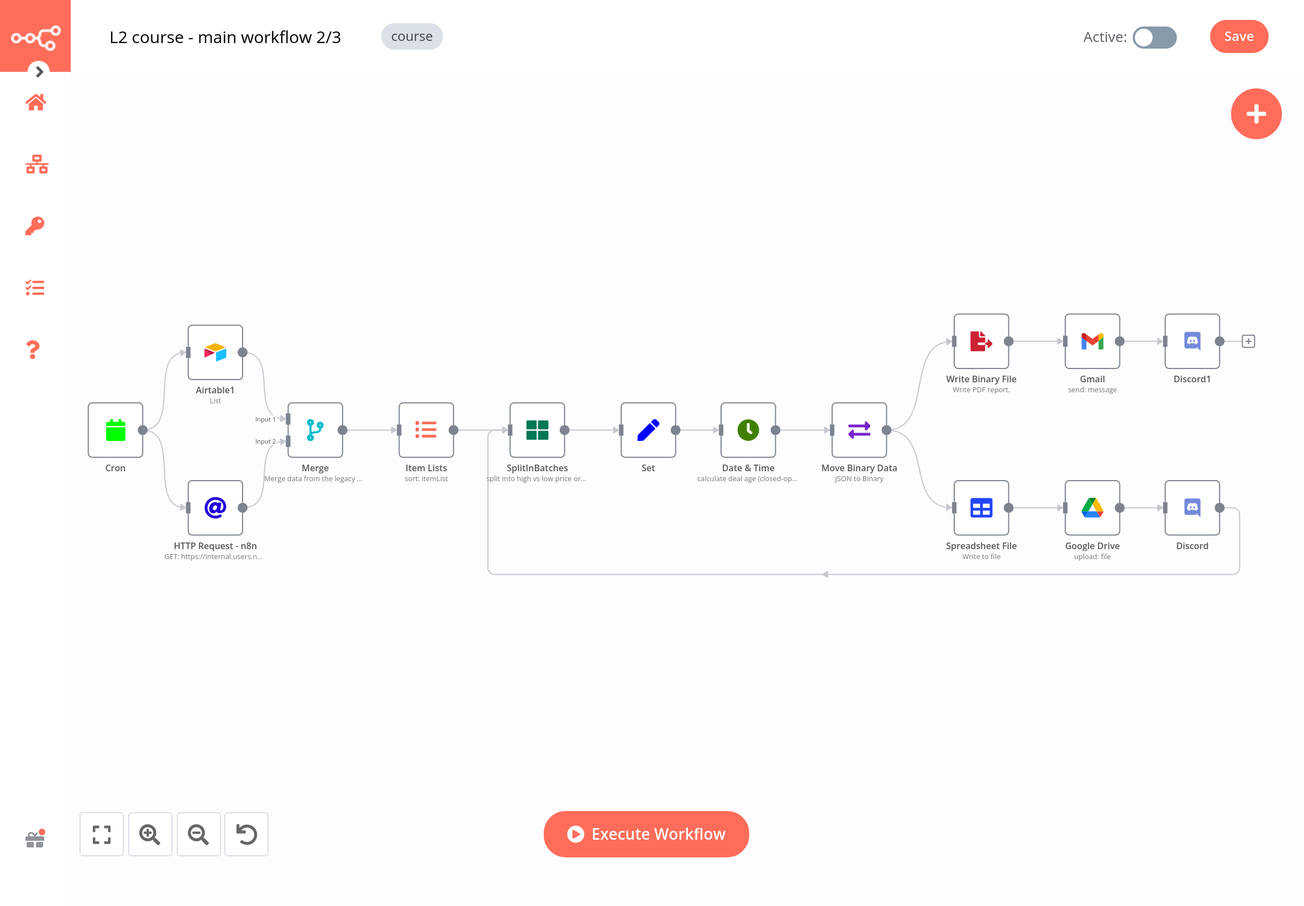
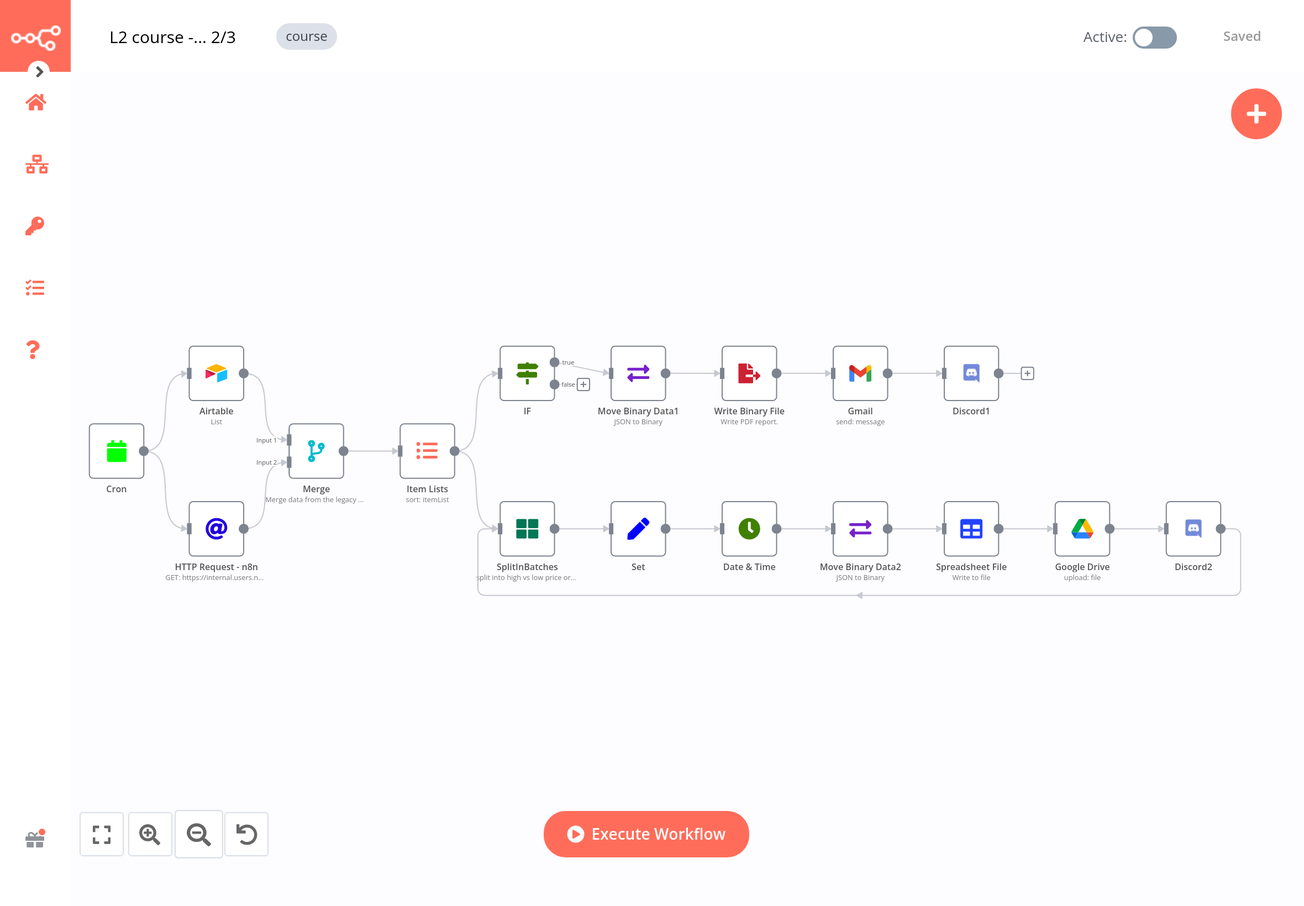
:tada: final course version

diff --git a/docs/courses/level-two/chapter-5/chapter-5.2.md b/docs/courses/level-two/chapter-5/chapter-5.2.md
@@ -6,52 +6,66 @@ In this workflow, you will merge data from different sources, transform binary d
 
 To make things easier, let's split the workflow into three parts.
 
-## Part 1 – Getting data
+## Part 1 – Getting data from different sources
 
-1. Use the *HTTP Request node* to get data from the API endpoint that stores company data. Configure the following node parameters:
+The first part of the workflow consists of five nodes:
 
-      * Authentication: Header Auth
-      * URL: https://internal.users.n8n.cloud/webhook/custom-erp
-      * Options > Add Option > Split Into Items: toggle to true.
-      * Headers > Add Header:
-          * Name: unique_id
-          * Value: your_unique_id
+<figure><img src="/_images/courses/level-two/chapter-five/workflow2_1.png" alt="" style="width:100%"><figcaption align = "center"><i>Workflow 1 – Getting data from different sources</i></figcaption></figure>
 
-2. Use the *Airtable node* to list data from the `customers` table (where you updated the fields *region* and *subregion*).
-3. Use the *Merge node* to merge data from the *Airtable* and *HTTP Request node*, based on the common key `customer ID`.
+1. Use the [*HTTP Request node*](/integrations/core-nodes/n8n-nodes-base.httpRequest/) to get data from the API endpoint that stores company data. Configure the following node parameters:
+
+      * *Authentication*: Header Auth
+      * *URL*: The Dataset URL you received in the email when you signed up for this course.
+      * *Options > Add Option > Split Into Items*: toggle to true.
+      * *Headers > Add Header*:
+          * *Name*: unique_id
+          * *Value*: The unique ID you received in the email when you signed up for this course.
+
+2. Use the [*Airtable node*](/integrations/nodes/n8n-nodes-base.airtable/) to list data from the `customers` table (where you updated the fields *region* and *subregion*).
+3. Use the [*Merge node*](/integrations/core-nodes/n8n-nodes-base.merge/) to merge data from the *Airtable* and *HTTP Request node*, based on the common key `customer ID`.
+4. Use the [*Item Lists node*](/integrations/core-nodes/n8n-nodes-base.itemLists/) to sort data by *orderPrice* in descending order.
 
 !!! question "Quiz questions"
 
     * What is the name of the employee assigned to customer 1?
     * What is the order status of customer 6?
-
-## Part 2 – Transforming data
-
-1. Use the *Items List node* to sort data by *orderPrice* in descending order.
-2. Use the *Split In Batches node* to split the data into batches of 5.
-3. Use the *Set node* to set four values, referenced with expressions from the previous node: *customerEmail*, *customerRegion*, *customerSince*, and *orderPrice*.
-4. Use the *Date & Time node* to change the date format of the field *customerSince* to the format MM/DD/YYYY.
-5. Use the *Move Binary node* to transform the incoming data from JSON to binary format. Note that you need to convert all data.
-
-!!! question "Quiz questions"
-
     * What is the highest order price?
-    * What is the lowest order price in the first batch of items?
 
-## Part 3 – Generating files
+## Part 2 – Generating file for regional sales
 
-9. Use the *Write Binary File node* to generate a PDF file.
-10. Send the PDF file via email to an email address you have access to.
-11. Use the *Discord node* to send a message in the n8n Discord channel `#course-level-two` with the Text: "I sent the PDF via email. My ID:" followed by your ID.
+The second part of the workflow consists of five nodes:
 
+<figure><img src="/_images/courses/level-two/chapter-five/workflow2_2.png" alt="" style="width:100%"><figcaption align = "center"><i>Workflow 2 – Generating file for regional sales</i></figcaption></figure>
 
-12. Use the *Spreadsheet File node* to create a spreadsheet with the file name set as the expression: `{{$runIndex > 0 ? 'file_low_orders':'file_high_orders'}}`.
-13. Use the *Google Drive node* to upload the spreadsheet to Google Drive.
-14. Use the *Discord node* to send a message in the n8n Discord channel `#course-level-two` with the Text: <br/>
-    "I uploaded the spreadsheet with name `{file name}` and kind `{file kind}`. My ID:" followed by your ID. <br/>
-	 Note that you need to replace the text in curly brackets `{}` with expressions that take the respective information from the *Google Drive node*.
+1. Use the [*IF node*](/integrations/core-nodes/n8n-nodes-base.if/) to filter order from the region Americas.
+2. Use the [*Move Binary Data node*](/integrations/core-nodes/n8n-nodes-base.moveBinaryData/) to transform the incoming data from JSON to binary format. Note that you need to convert all data.
+3. Use the [*Write Binary File node*](/integrations/core-nodes/n8n-nodes-base.writeBinaryFile/) to generate a PDF file.
+4. Use the [*Gmail node*](/integrations/nodes/n8n-nodes-base.gmail/) (or another email node) to send the PDF file via email to an address you have access to.
+5. Use the [*Discord node*](/integrations/nodes/n8n-nodes-base.discord/) to send a message in the n8n Discord channel `#course-level-two` with the Text: "I sent the PDF via email. My ID:" followed by your ID.
 
 !!! question "Quiz questions"
 
-    * What is the formatted date assigned to customer 7?
-    * How many emails with PDF files are sent?
+    * How many orders are assigned to the region Americas?
+    * What is the total price of the orders in the region Americas?
+    * How many items are returned by the *Write Binary File node*?
+
+## Part 3 – Generating files for total sales
+
+The third part of the workflow consists of seven nodes:
+
+<figure><img src="/_images/courses/level-two/chapter-five/workflow2_3.png" alt="" style="width:100%"><figcaption align = "center"><i>Workflow 3 – Generating files for total sales</i></figcaption></figure>
+
+1. Use the [*Split In Batches node*](/integrations/core-nodes/n8n-nodes-base.splitInBatches/) to split data from the *Item Lists node* into batches of 5.
+2. Use the [*Set node*](/integrations/core-nodes/n8n-nodes-base.set/) to set four values, referenced with expressions from the previous node: *customerEmail*, *customerRegion*, *customerSince*, and *orderPrice*.
+3. Use the [*Date & Time node*](/integrations/core-nodes/n8n-nodes-base.dateTime/) to change the date format of the field *customerSince* to the format MM/DD/YYYY.
+4. Use the [*Move Binary Data node*](/integrations/core-nodes/n8n-nodes-base.moveBinaryData/) to transform the incoming data from JSON to binary format. Note that you need to convert all data.
+5. Use the [*Spreadsheet File node*](/integrations/core-nodes/n8n-nodes-base.spreadsheetFile/) to create a spreadsheet with the file name set as the expression: `{{$runIndex > 0 ? 'file_low_orders':'file_high_orders'}}`.
+6. Use the [*Google Drive node*](/integrations/nodes/n8n-nodes-base.googleDrive/) to upload the spreadsheet to Google Drive.
+7. Use the [*Discord node*](/integrations/nodes/n8n-nodes-base.discord/) to send a message in the n8n Discord channel `#course-level-two` with the Text: <br/>
+    "I uploaded the spreadsheet `{file name}`. My ID:" followed by your ID. <br/>
+
+!!! question "Quiz questions"
+
+    * What is the lowest order price in the first batch of items?
+    * What is the formatted date of customer 7?
+    * How many items are returned by the *Spreadsheet File node*?

diff --git a/docs/courses/level-two/chapter-2.md b/docs/courses/level-two/chapter-2.md
@@ -1,6 +1,6 @@
 # Processing different data types
 
-In this chapter, you will learn how to process different types of data using [n8n core nodes](https://docs.n8n.io/getting-started/key-components/node.html#core-nodes).
+In this chapter, you will learn how to process different types of data using [n8n core nodes](/workflows/nodes/).
 
 
 ## HTML and XML data
@@ -11,7 +11,7 @@ You're most likely familiar with HTML and XML.
 
     HTML is a markup language used to describe the structure and semantics of a web page. XML looks similar to HTML, but the tag names are different, as they describe the kind of data they hold.
 
-If you need to process HTML or XML data in your n8n workflows, use the [***HTML Extract node***](https://docs.n8n.io/nodes/n8n-nodes-base.htmlExtract/) or [***XML node***](https://docs.n8n.io/nodes/n8n-nodes-base.xml/#xml).
+If you need to process HTML or XML data in your n8n workflows, use the [***HTML Extract node***](/integrations/core-nodes/n8n-nodes-base.htmlExtract/) or [***XML node***](/integrations/core-nodes/n8n-nodes-base.xml/).
 
 The *HTML Extract node* allows you to extract HTML content of a webpage, by referencing CSS selectors. This is useful if you want to collect structured information from a website (web-scraping).
 
@@ -53,7 +53,7 @@ The *XML node* allows you to convert XML to JSON and JSON to XML. This operation
 
 !!! example "Exercise"
 
-		In a [previous exercise](L2_chapter1.md/#exercise), you used an *HTTP Request node* to make a request to an API. Now, use the *XML node* to convert the JSON output to XML.
+		In a previous exercise, you used an *HTTP Request node* to make a request to an API. Now, use the *XML node* to convert the JSON output to XML.
 
 		<details>
 		<summary>Show me the solution</summary>
@@ -84,19 +84,19 @@ Date and time data types include `DATE`, `TIME`, `DATETIME`, `TIMESTAMP`, and `Y
 - `TIMESTAMP`: 1616108400 (Unix timestamp), 1616108400000 (Unix ms timestamp)
 - `YEAR`: 2022, 22
 
-If you need to convert date and time data to different formats, and calculate dates, use the [***Date & Time node***](https://docs.n8n.io/nodes/n8n-nodes-base.dateTime/).
+If you need to convert date and time data to different formats, and calculate dates, use the [***Date & Time node***](/integrations/core-nodes/n8n-nodes-base.dateTime/).
 
 You can also schedule workflows to run at a specific time, interval, or duration, using the two trigger nodes:
 
-- [***Cron node***](https://docs.n8n.io/nodes/n8n-nodes-base.cron/) triggers the workflow at fixed dates and/or times (for example, every Monday at 9am).
-- [***Interval node***](https://docs.n8n.io/nodes/n8n-nodes-base.interval/) triggers the workflow in regular intervals of time (for example, every 10 minutes).
+- [***Cron node***](/integrations/core-nodes/n8n-nodes-base.cron/) triggers the workflow at fixed dates and/or times (for example, every Monday at 9am).
+- [***Interval node***](/integrations/core-nodes/n8n-nodes-base.interval/) triggers the workflow in regular intervals of time (for example, every 10 minutes).
 
-In some cases, you might need to pause the workflow execution. This might be necessary, for example, if you know that a service doesn't process the data instantly or it is generally slower, so you don't want the incomplete data to be passed to the next node. In this case, you can use the [***Wait node***](https://docs.n8n.io/nodes/n8n-nodes-base.wait/) after the node that you want to delay. The *Wait node* pauses the workflow execution and resumes it at a specific time, after a time interval, or on a webhook call.
+In some cases, you might need to pause the workflow execution. This might be necessary, for example, if you know that a service doesn't process the data instantly or it is generally slower, so you don't want the incomplete data to be passed to the next node. In this case, you can use the [***Wait node***](/integrations/core-nodes/n8n-nodes-base.wait/) after the node that you want to delay. The *Wait node* pauses the workflow execution and resumes it at a specific time, after a time interval, or on a webhook call.
 
 
 !!! example "Exercise"
 
-		Build a workflow that adds five days to an input date. Then, if the calculated date occurred after today, the workflow waits 1 minute before [setting](https://docs.n8n.io/nodes/n8n-nodes-base.set/) the calculated date as a value. The workflow should be triggered every 30 minutes.
+		Build a workflow that adds five days to an input date. Then, if the calculated date occurred after today, the workflow waits 1 minute before [setting](/integrations/core-nodes/n8n-nodes-base.set/) the calculated date as a value. The workflow should be triggered every 30 minutes.
 
 		<details>
 		<summary>Show me the solution</summary>
@@ -270,11 +270,11 @@ So far, you have mainly worked with text data. But what if you want to process d
 
 In n8n, you can process binary data with the following nodes:
 
-- [***Move Binary Data node***](https://docs.n8n.io/nodes/n8n-nodes-base.moveBinaryData/) to move data between binary and JSON properties.
-- [***Read Binary File node***](https://docs.n8n.io/nodes/n8n-nodes-base.readBinaryFile/) to read a file from the host machine that runs n8n.
-- [***Read Binary Files***](https://docs.n8n.io/nodes/n8n-nodes-base.readBinaryFiles/) to read multiple files from the host machine that runs n8n.
-- [***Write Binary File***](https://docs.n8n.io/nodes/n8n-nodes-base.writeBinaryFile/) to write a file to the host machine that runs n8n.
-- [***Spreadsheet File node***](https://docs.n8n.io/nodes/n8n-nodes-base.spreadsheetFile/) to read from or write to spreadsheet files of different formats (for example, CSV, XLSX).
+- [***Move Binary Data node***](/integrations/core-nodes/n8n-nodes-base.moveBinaryData/) to move data between binary and JSON properties.
+- [***Read Binary File node***](/integrations/core-nodes/n8n-nodes-base.readBinaryFile/) to read a file from the host machine that runs n8n.
+- [***Read Binary Files***](/integrations/core-nodes/n8n-nodes-base.readBinaryFiles/) to read multiple files from the host machine that runs n8n.
+- [***Write Binary File***](/integrations/core-nodes/n8n-nodes-base.writeBinaryFile/) to write a file to the host machine that runs n8n.
+- [***Spreadsheet File node***](/integrations/core-nodes/n8n-nodes-base.spreadsheetFile/) to read from or write to spreadsheet files of different formats (for example, CSV, XLSX).
 
 To read or write a binary file, you need to write the path (location) of the file in the node's `File Name` parameter.
 

diff --git a/docs/courses/level-two/chapter-1.md b/docs/courses/level-two/chapter-1.md
@@ -47,7 +47,7 @@ The data that moves along from node to node in your workflow must be in a format
 
 	You can access the properties of an object using **dot notation** with the syntax `object.property`. For example, `turtles[1].color` gets the color of the second turtle.
 
-Data sent from one node to another is sent as an array of JSON objects. The elements in this collection are called [**Items**](https://docs.n8n.io/getting-started/key-concepts/#item).
+Data sent from one node to another is sent as an array of JSON objects. The elements in this collection are called [**Items**](/getting-started/key-concepts/#item).
 
 <figure><img src="/_images/courses/level-two/chapter-one/explanation_items.png" alt="" style="width:100%"><figcaption align = "center"><i>Items</i></figcaption></figure>
 
@@ -86,7 +86,9 @@ For example, the array of objects representing the Ninja turtles would look like
 You can also have nested pairs, for example if you want to define a primary and a secondary color. In this case, you need to further wrap the key-value pairs in curly braces `{}`.
 
 !!! info "n8n data structure video"
-	For a more detailed explanation of data structure in n8n, watch [this meetup talk](https://www.youtube.com/watch?v=mQHT3Unn4tY).
+	[This talk](https://www.youtube.com/watch?v=mQHT3Unn4tY) offers a more detailed explanation of data structure in n8n.
+
+	<iframe width="560" height="315" src="https://www.youtube.com/embed/mQHT3Unn4tY" title="YouTube video player" frameborder="0" allow="accelerometer; autoplay; clipboard-write; encrypted-media; gyroscope; picture-in-picture" allowfullscreen></iframe>
 
 !!! example "Exercise"
 
@@ -129,7 +131,7 @@ You can also have nested pairs, for example if you want to define a primary and 
 
 ## Referencing node data with the Function node
 
-Just like you can use [expressions](https://docs.n8n.io/nodes/expressions.html) to reference data from other nodes, you can also use some [methods and variables](https://docs.n8n.io/nodes/expressions.html#method-evaluateexpression-expression-string-itemindex-number) in the *Function node*.
+Just like you can use [expressions](/code-examples/expressions/) to reference data from other nodes, you can also use some [methods](/code-examples/expressions/methods/) and [variables](/code-examples/expressions/variables/) in the *Function node*.
 
 !!! example "Exercise"
 
@@ -154,7 +156,7 @@ Just like you can use [expressions](https://docs.n8n.io/nodes/expressions.html) 
 
 ## Transforming data
 
-The incoming data from some nodes may have a different data structure than the one used in n8n. In this case, you need to [transform the data](https://docs.n8n.io/getting-started/key-concepts/transforming-data.html#transforming-data), so that each item can be processed individually.
+The incoming data from some nodes may have a different data structure than the one used in n8n. In this case, you need to [transform the data](/data/transforming-data/), so that each item can be processed individually.
 
 The two most common operations for data transformation are:
 
@@ -164,8 +166,8 @@ The two most common operations for data transformation are:
 There are several ways to transform data for the purposes mentioned above:
 
 - With the *HTTP Request node*, you can toggle the option `Split Into Items` to create multiple items from a single item. This is the easiest way to transform incoming web data with one click.
-- With the [*Item Lists node*](https://docs.n8n.io/nodes/n8n-nodes-base.itemLists), you can `Split Out Items` or `Aggregate Items`. This node is the easy way to modify the structure of incoming data that contain lists (arrays), without needing to use JavaScript code in the *Function node*.
-- With the *Function node*, you can write [JavaScript functions to modify the data structure](https://docs.n8n.io/reference/javascript-code-snippets.html#modify-data-structure) of incoming data.
+- With the [*Item Lists node*](/integrations/core-nodes/n8n-nodes-base.itemLists), you can `Split Out Items` or `Aggregate Items`. This node is the easy way to modify the structure of incoming data that contain lists (arrays), without needing to use JavaScript code in the *Function node*.
+- With the *Function node*, you can write JavaScript functions to modify the data structure of incoming data.
 
     - To create multiple items from a single item, you can use this JavaScript code:
 
@@ -192,7 +194,7 @@ There are several ways to transform data for the purposes mentioned above:
 
 !!! example "Exercise"
 
-    Use the *HTTP Request node* to make a GET request to the Poemist API `https://www.poemist.com/api/v1/randompoems`. Transform the incoming data with the `Split Into Items` option and [with the *Function node*](https://docs.n8n.io/reference/javascript-code-snippets.html#_1-create-multiple-items-from-a-single-item).
+    Use the *HTTP Request node* to make a GET request to the Poemist API `https://www.poemist.com/api/v1/randompoems`. Transform the incoming data with the `Split Into Items` option and with the *Function node*.
 
 	<details>
 	<summary>Show me the solution</summary>

diff --git a/docs/courses/level-two/chapter-4.md b/docs/courses/level-two/chapter-4.md
@@ -7,7 +7,7 @@ But don't panic. We will show you some ways in which you can troubleshoot the is
 
 ## Checking failed workflows
 
-When one of your workflows fails, it's helpful to check the execution log by clicking on *Executions* in the left-side panel. The executions log shows you a list of the latest execution time, status, mode, and running time of your saved workflows.
+When one of your workflows fails, it's helpful to check the execution log by clicking on [*Executions*](/editor-ui/#executions) in the left-side panel. The executions log shows you a list of the latest execution time, status, mode, and running time of your saved workflows.
 
 To investigate a specific workflow from the list, click on the folder icon on the row of the respective workflow.
 
@@ -20,9 +20,9 @@ This will open the workflow in read-only mode, where you can see the execution o
 
 ## Catching erroring workflows
 
-To catch failed workflows, create a separate [**Error Workflow**](https://docs.n8n.io/getting-started/key-concepts/#error-workflow) with the [***Error Trigger node***](https://docs.n8n.io/nodes/n8n-nodes-base.errorTrigger/), which gets executed if the main execution fails.
+To catch failed workflows, create a separate [**Error Workflow**](/workflows/workflows/#failed-workflows) with the [***Error Trigger node***](/integrations/core-nodes/n8n-nodes-base.errorTrigger/), which gets executed if the main execution fails.
 
-Then, you can take further actions by connecting other nodes, for example sending notifications via email or Slack about the failed workflow and its errors. To receive error messages for a failed workflow, you need to select the option `Error Workflow` in the [Workflow Settings](https://docs.n8n.io/courses/level-one/chapter-5/chapter-5.8.html) of the respective workflow.
+Then, you can take further actions by connecting other nodes, for example sending notifications via email or Slack about the failed workflow and its errors. To receive error messages for a failed workflow, you need to select the option `Error Workflow` in the [Workflow Settings](/courses/level-one/chapter-5/chapter-5.8) of the respective workflow.
 
 The only difference between a regular workflow and an Error Workflow is that the latter contains an *Error Trigger node*. Make sure to create this node before you set a workflow as Error Workflow.
 
@@ -103,7 +103,7 @@ The only difference between a regular workflow and an Error Workflow is that the
 
 ## Throwing exceptions in workflows
 
-Another way of troubleshooting workflows is to include a [***Stop and Error node***](https://docs.n8n.io/nodes/n8n-nodes-base.stopAndError/) in your workflow. This node throws an error, which can be set to one of two *Error Types*: an *Error Message* or an *Error Object*. The *Error Message* returns a custom message about the error, while the *Error Object* returns the type of error.
+Another way of troubleshooting workflows is to include a [***Stop and Error node***](/integrations/core-nodes/n8n-nodes-base.stopAndError/) in your workflow. This node throws an error, which can be set to one of two *Error Types*: an *Error Message* or an *Error Object*. The *Error Message* returns a custom message about the error, while the *Error Object* returns the type of error.
 
 The *Stop and Error node* can only be added as the last node in a workflow.
 

diff --git a/docs/courses/level-two/chapter-3.md b/docs/courses/level-two/chapter-3.md
@@ -20,7 +20,7 @@ Merging data can involve:
 
 		[This blog tutorial](https://n8n.io/blog/how-to-sync-data-between-two-systems/) explains how to sync data one-way and two-way between two CRMs.
 
-In n8n, you can merge data from two different nodes using the [***Merge node***](https://docs.n8n.io/nodes/n8n-nodes-base.merge/), which provides several merging modes:
+In n8n, you can merge data from two different nodes using the [***Merge node***](/integrations/core-nodes/n8n-nodes-base.merge/), which provides several merging modes:
 
 - Append
 - Keep Key Matches
@@ -68,13 +68,13 @@ Notice that three of these modes require a **key** (Merge By Key, Keep Key Match
 In some cases, you might need to perform the same operation on each element of an array / each data item (for example sending a message to every contact in your address book). In technical terms, you need to **iterate** through the data (with **loops**).
 
 
-n8n handles this repetitive processing automatically, as the nodes run once for each item, so you don't need to build loops into your workflows. However, there are some [exceptions of nodes and operations](https://docs.n8n.io/getting-started/key-concepts/looping.html#node-exceptions) for which you need to build a loop into your workflow.
+n8n handles this repetitive processing automatically, as the nodes run once for each item, so you don't need to build loops into your workflows. However, there are some [exceptions of nodes and operations](/flow-logic/looping/#node-exceptions) for which you need to build a loop into your workflow.
 
-To [create a loop in an n8n workflow](https://docs.n8n.io/getting-started/key-concepts/looping.html#using-loops-in-n8n), you need to connect the output of one node to the input of a previous node, and add an *IF node* to check when to stop the loop.
+To [create a loop in an n8n workflow](/flow-logic/looping/#using-loops-in-n8n), you need to connect the output of one node to the input of a previous node, and add an *IF node* to check when to stop the loop.
 
 ## Splitting data in batches
 
-If you need to process large incoming data, execute the *Function node* multiple times, or avoid API rate limits, it's best to split the data into batches (groups) and process these batches. You can do this with the [***Split in Batches node***](https://docs.n8n.io/nodes/n8n-nodes-base.splitInBatches/). This node splits input data into a specified batch size and, with each iteration, returns a predefined amount of data.
+If you need to process large incoming data, execute the *Function node* multiple times, or avoid API rate limits, it's best to split the data into batches (groups) and process these batches. You can do this with the [***Split in Batches node***](/integrations/core-nodes/n8n-nodes-base.splitInBatches/). This node splits input data into a specified batch size and, with each iteration, returns a predefined amount of data.
 
 !!! warning "Execution of Split in Batches node"
 

diff --git a/docs/courses/level-two/chapter-5/chapter-5.1.md b/docs/courses/level-two/chapter-5/chapter-5.1.md
@@ -8,10 +8,11 @@ To accomplish this task, you first need to make a copy of this [customers table]
 
 Next, you have to build a small workflow that merges data from Airtable and a REST API.
 
-1. Use the [*Airtable node*](/integrations/nodes/n8n-nodes-base.airtable/) to list the data in the Airtable table named `customers`.
-2. use the [*HTTP Request node*](/integrations/core-nodes/n8n-nodes-base.httpRequest/) to get data from the REST Countries API: `https://restcountries.com/v3.1/all`. This will return data about world countries. Note that the incoming data needs to be split into items.
-3. Use the [*Merge node*](/integrations/core-nodes/n8n-nodes-base.merge/) to merge data from Airtable and the Countries API by country name (the common key), represented as `customerCountry` in Airtable and `name.common` in the Countries API, respectively.
-4. Use the *Airtable node* to update the fields *region* and *subregion* in Airtable with the data from the Countries API.
+1. Use the [*Cron node*](/integrations/core-nodes/n8n-nodes-base.cron/) to trigger the workflow on the 1st of every month at 10:00.
+2. Use the [*Airtable node*](/integrations/nodes/n8n-nodes-base.airtable/) to list the data in the Airtable table named `customers`.
+3. use the [*HTTP Request node*](/integrations/core-nodes/n8n-nodes-base.httpRequest/) to get data from the REST Countries API: `https://restcountries.com/v3.1/all`. This will return data about world countries. Note that the incoming data needs to be split into items.
+4. Use the [*Merge node*](/integrations/core-nodes/n8n-nodes-base.merge/) to merge data from Airtable and the Countries API by country name (the common key), represented as `customerCountry` in Airtable and `name.common` in the Countries API, respectively.
+5. Use the *Airtable node* to update the fields *region* and *subregion* in Airtable with the data from the Countries API.
 
 The workflow should look like this:
 

diff --git a/docs/courses/level-two/chapter-5/chapter-5.0.md b/docs/courses/level-two/chapter-5/chapter-5.0.md
@@ -4,7 +4,7 @@ Remember [our friend Nathan](/courses/level-one/chapter-3)?
 
 **Nathan 🙋:** Hello, it's me again. My manager was so impressed with my first workflow automation solution, that she entrusted me with more responsibility.<br/>
 **You 👩🔧:** More work and responsibility. Congratulations, I guess. What do you need to do now?<br/>
-**Nathan 🙋:** I got access to all sales data and am responsible for creating two reports, as PDF and spreadsheet files. They are based on data from different sources and come in different formats.<br/>
+**Nathan 🙋:** I got access to all sales data and am responsible for creating two reports: one for regional sales (as PDF) and one for orders prices (as spreadsheets). They are based on data from different sources and come in different formats.<br/>
 **You 👩🔧:** Sounds like a lot of manual work–but the kind that can be automated. So let's do it!
 
 
@@ -13,7 +13,7 @@ Remember [our friend Nathan](/courses/level-one/chapter-3)?
 Now that we have an idea of what Nathan wants to automate, let’s list the steps he needs to take to achieve this:
 
 1. Get and combine data from all necessary sources.
-2. Format the dates.
+2. Sort the data and format the dates.
 3. Write binary data (spreadsheet and PDF).
 4. Send notifications via email and Discord.
 
@@ -29,6 +29,6 @@ To build the workflows, you will need the following:
 
 * An [Airtable](https://airtable.com/) account and [credentials]().
 * A [Google](https://www.google.com/account/about/) account and [credentials]() to access Gmail and Google Drive.
-* A [Discord]() webhook URL.
+* A [Discord](https://discord.com/) webhook URL.
 
 Next, you will build these three workflows with step-by-step instructions.

diff --git a/docs/courses/level-two/chapter-6.md b/docs/courses/level-two/chapter-6.md
@@ -6,7 +6,7 @@ You’ve come a long way throughout this course and learned a lot about workflow
 
 * Test your knowledge of everything you've learned in this course with a **quiz**. The quiz consists of questions about the theoretical concepts and workflows covered in this course.
 
-    - You need to have at least 80% correct answers in each part.
+    - You need to have at least 80% correct answers.
     - You can take the quiz as many times as you want.
     - There is no time limit on answering the quiz questions.
 
@@ -15,4 +15,4 @@ You’ve come a long way throughout this course and learned a lot about workflow
 </div>
 
 * Create new workflows for your work or personal use and share them with us. Don’t have any ideas? Find inspiration on the [workflows page](https://n8n.io/workflows) and on our [blog](https://n8n.io/blog/).
-* Dive deeper into n8n’s features by reading the [docs](/reference).
+* Dive deeper into n8n’s features by reading the [docs](/reference/).

diff --git a/docs/courses/level-two/index.md b/docs/courses/level-two/index.md
@@ -36,7 +36,7 @@ Completing the course should take around two hours. You do not have to complete 
 
 We believe all good works deserve recognition. If you successfully complete the course, we will email you a **badge** that you can share with your peers to showcase your n8n skills. To get your n8n badge, you need to complete the following milestones:
 
-- [x] [Sign up](https://n8n-community.typeform.com/to/HQoQ7nXg) for the course to get your unique ID and webhook URL. If you had already signed up for the Level 1 course, you can use the same ID.
-- [x] Automatically generate and upload two spreadsheets.
+- [x] [Sign up](https://n8n-community.typeform.com/to/HQoQ7nXg) for the course to get your unique ID and other information you will need for the exercises.
 - [x] Automatically generate and email a PDF file.
+- [x] Automatically generate and upload two spreadsheets.
 - [x] Pass the quiz at the end of the course.
